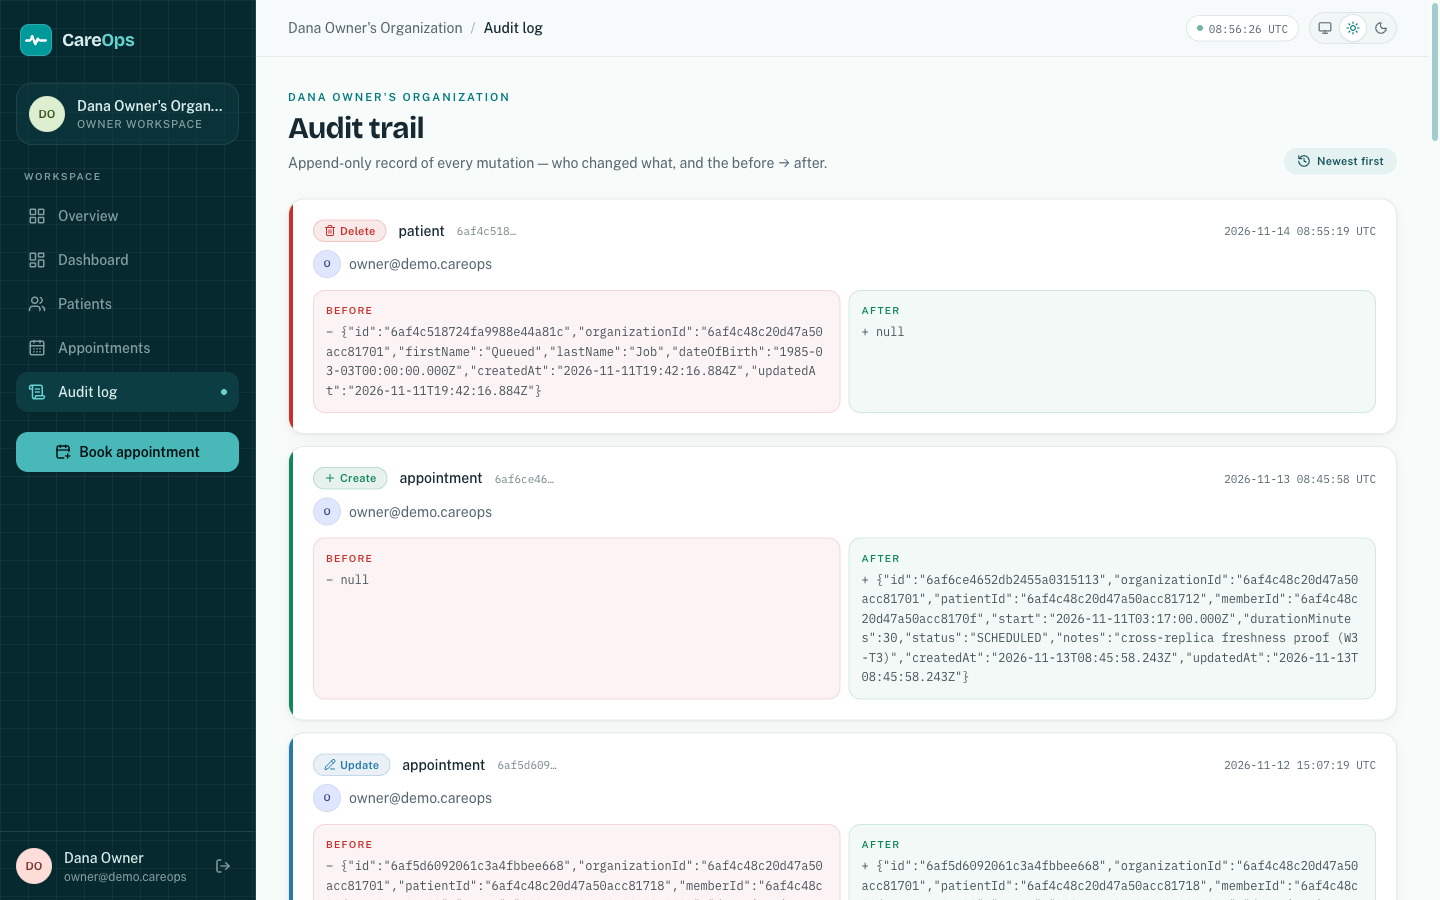
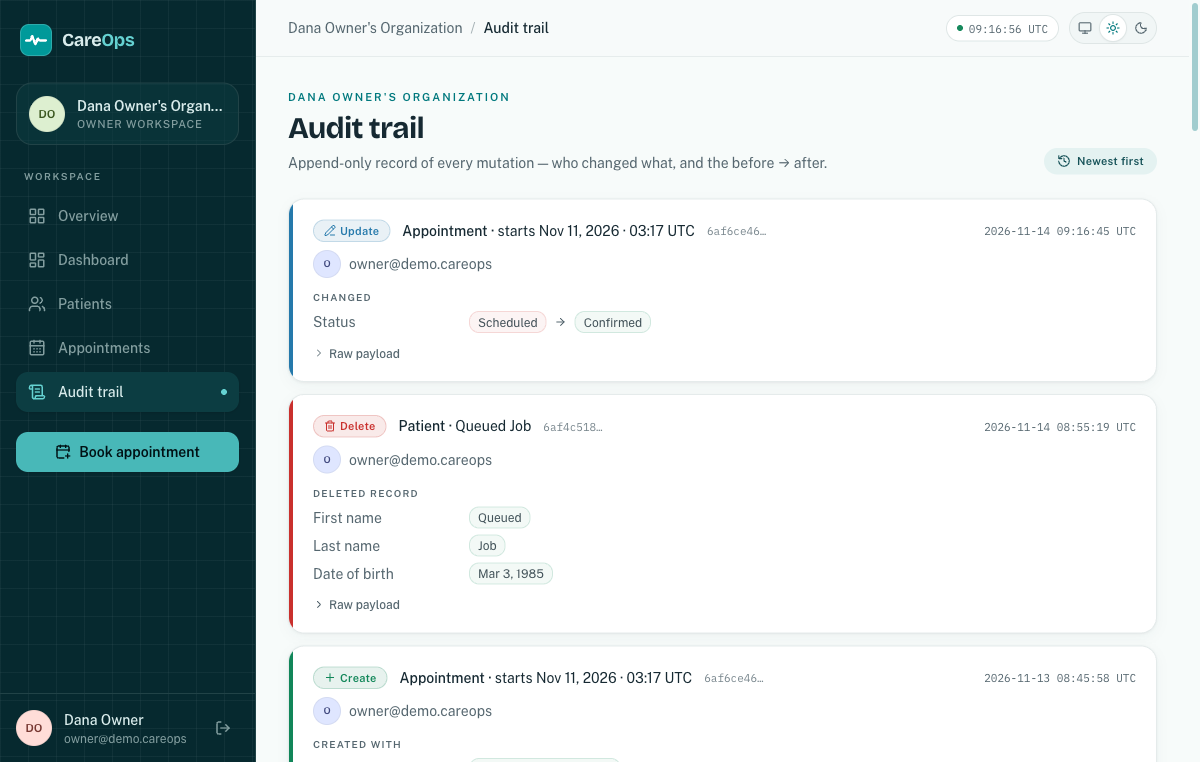
feat(web): audit trail UX — human headlines, field diffs, raw payload disclosure (#56)
* feat(web): audit trail UX — human headlines, field diffs, raw payload disclosure

* refactor(web): audit-format review fixes — shared row walk, stable compare, entry-based signatures

diff --git a/apps/web/src/routes/audit.tsx b/apps/web/src/routes/audit.tsx
@@ -3,6 +3,8 @@ import { useInfiniteQuery } from '@tanstack/react-query';
 import { auditEntriesPageSchema, type AuditEntry, type WorkspaceMe } from '@careops/shared';
 import {
   ArrowLeft,
+  ArrowRight,
+  ChevronRight,
   CircleAlert,
   History,
   PencilLine,
@@ -22,6 +24,7 @@ import { Card } from '#/components/ui/card';
 import { EmptyState } from '#/components/ui/empty-state';
 import { Skeleton } from '#/components/ui/skeleton';
 import { apiGet } from '#/lib/api';
+import { describeEntity, entryChanges, formatStamp } from '#/lib/audit-format';
 import { useWorkspace } from '#/lib/use-workspace';
 import { cn } from '#/lib/utils';
 
@@ -36,12 +39,7 @@ const ACTION_META: Record<
   delete: { icon: Trash2, variant: 'destructive', rail: 'bg-destructive' },
 };
 
-function formatStamp(iso: string): string {
-  const date = new Date(iso);
-  if (Number.isNaN(date.getTime())) return iso;
-  const stamp = date.toISOString();
-  return `${stamp.slice(0, 10)} ${stamp.slice(11, 19)} UTC`;
-}
+const MAX_VISIBLE_ROWS = 8;
 
 function AuditPage() {
   const me = useWorkspace('/audit');
@@ -134,6 +132,9 @@ function AuditTrail({ me }: { me: WorkspaceMe }) {
           {entries.map((entry, index) => {
             const meta = ACTION_META[entry.action];
             const Icon = meta.icon;
+            const { heading, rows } = entryChanges(entry);
+            const subject = describeEntity(entry);
+            const entityTitle = entry.entity.charAt(0).toUpperCase() + entry.entity.slice(1);
             return (
               <li key={entry.id} data-testid="audit-row" className="relative animate-rise">
                 <Card
@@ -148,7 +149,15 @@ function AuditTrail({ me }: { me: WorkspaceMe }) {
                       <Icon className="size-3" />
                       {entry.action}
                     </Badge>
-                    <span className="text-sm font-medium">{entry.entity}</span>
+                    <span className="text-sm font-medium">
+                      {entityTitle}
+                      {subject && (
+                        <>
+                          {' '}
+                          · <span className="font-normal">{subject}</span>
+                        </>
+                      )}
+                    </span>
                     <span className="font-mono text-[11px] text-muted-foreground/80">
                       {entry.entityId.slice(0, 8)}…
                     </span>
@@ -160,24 +169,85 @@ function AuditTrail({ me }: { me: WorkspaceMe }) {
                     <Avatar name={entry.actorEmail} size="sm" />
                     <span className="truncate">{entry.actorEmail}</span>
                   </div>
-                  <div className="mt-3 grid gap-2 lg:grid-cols-2">
-                    <div className="rounded-lg border border-destructive/15 bg-destructive/5 p-3">
-                      <p className="text-[10px] font-semibold uppercase tracking-[0.12em] text-destructive">
-                        Before
+
+                  <div className="mt-3">
+                    <p className="text-[10px] font-semibold uppercase tracking-[0.12em] text-muted-foreground">
+                      {heading}
+                    </p>
+                    {rows.length === 0 ? (
+                      <p className="mt-1.5 text-sm text-muted-foreground">
+                        No field changes recorded — see the raw payload.
                       </p>
-                      <pre className="mt-1 max-h-44 overflow-auto whitespace-pre-wrap break-all font-mono text-xs leading-relaxed text-foreground/80">
-                        − {JSON.stringify(entry.before)}
-                      </pre>
-                    </div>
-                    <div className="rounded-lg border border-success/15 bg-success/5 p-3">
-                      <p className="text-[10px] font-semibold uppercase tracking-[0.12em] text-success">
-                        After
+                    ) : (
+                      <ul className="mt-1.5 grid gap-1.5">
+                        {rows.slice(0, MAX_VISIBLE_ROWS).map((row) => (
+                          <li
+                            key={row.label}
+                            className="grid items-center gap-x-3 gap-y-1 text-sm sm:grid-cols-[minmax(9rem,auto)_1fr]"
+                          >
+                            <span className="text-muted-foreground">{row.label}</span>
+                            <span className="flex flex-wrap items-center gap-2">
+                              {row.before !== null && (
+                                <span
+                                  title={row.before}
+                                  className="max-w-[36rem] truncate rounded-md border border-destructive/15 bg-destructive/5 px-2 py-0.5 text-xs text-foreground/80"
+                                >
+                                  {row.before}
+                                </span>
+                              )}
+                              {row.before !== null && row.after !== null && (
+                                <ArrowRight
+                                  aria-hidden
+                                  className="size-3 shrink-0 text-muted-foreground"
+                                />
+                              )}
+                              {row.after !== null && (
+                                <span
+                                  title={row.after}
+                                  className="max-w-[36rem] truncate rounded-md border border-success/15 bg-success/5 px-2 py-0.5 text-xs text-foreground/80"
+                                >
+                                  {row.after}
+                                </span>
+                              )}
+                            </span>
+                          </li>
+                        ))}
+                      </ul>
+                    )}
+                    {rows.length > MAX_VISIBLE_ROWS && (
+                      <p className="mt-1.5 text-xs text-muted-foreground">
+                        + {rows.length - MAX_VISIBLE_ROWS} more — open the raw payload.
                       </p>
-                      <pre className="mt-1 max-h-44 overflow-auto whitespace-pre-wrap break-all font-mono text-xs leading-relaxed text-foreground/80">
-                        + {JSON.stringify(entry.after)}
-                      </pre>
-                    </div>
+                    )}
                   </div>
+
+                  <details className="group mt-3">
+                    <summary className="flex w-fit cursor-pointer select-none items-center gap-1 text-xs font-medium text-muted-foreground transition-colors hover:text-foreground [&::-webkit-details-marker]:hidden">
+                      <ChevronRight
+                        aria-hidden
+                        className="size-3 transition-transform group-open:rotate-90"
+                      />
+                      Raw payload
+                    </summary>
+                    <div className="mt-2 grid gap-2 lg:grid-cols-2">
+                      <div className="rounded-lg border border-destructive/15 bg-destructive/5 p-3">
+                        <p className="text-[10px] font-semibold uppercase tracking-[0.12em] text-destructive">
+                          Before
+                        </p>
+                        <pre className="mt-1 max-h-44 overflow-auto whitespace-pre-wrap break-all font-mono text-xs leading-relaxed text-foreground/80">
+                          − {JSON.stringify(entry.before)}
+                        </pre>
+                      </div>
+                      <div className="rounded-lg border border-success/15 bg-success/5 p-3">
+                        <p className="text-[10px] font-semibold uppercase tracking-[0.12em] text-success">
+                          After
+                        </p>
+                        <pre className="mt-1 max-h-44 overflow-auto whitespace-pre-wrap break-all font-mono text-xs leading-relaxed text-foreground/80">
+                          + {JSON.stringify(entry.after)}
+                        </pre>
+                      </div>
+                    </div>
+                  </details>
                 </Card>
               </li>
             );

diff --git a/apps/web/src/lib/audit-format.ts b/apps/web/src/lib/audit-format.ts
@@ -1,0 +1,165 @@
+/**
+ * Audit-trail presentation helpers: turn the raw before→after payloads of an
+ * Audit Entry into human-readable rows. The immutable payload stays the source
+ * of truth — it is always available behind the entry's "Raw payload" disclosure
+ * — these helpers only decide what the summary shows.
+ */
+import type { AuditEntry } from '@careops/shared';
+
+/** Internal bookkeeping keys — meaningful to the record, not to a reader. */
+const NOISE_KEYS = new Set([
+  'id',
+  '_id',
+  'organizationId',
+  'createdAt',
+  'updatedAt',
+  'patientId',
+  'memberId',
+]);
+
+const LABELS: Record<string, string> = {
+  firstName: 'First name',
+  lastName: 'Last name',
+  dateOfBirth: 'Date of birth',
+  phone: 'Phone',
+  contactEmail: 'Contact email',
+  notes: 'Notes',
+  start: 'Start (UTC)',
+  durationMinutes: 'Duration',
+  status: 'Status',
+};
+
+const MAX_VALUE_LENGTH = 140;
+
+export type AuditChangeRow = {
+  label: string;
+  /** Formatted old value — null on create. */
+  before: string | null;
+  /** Formatted new value — null on delete. */
+  after: string | null;
+};
+
+function payloadOf(value: unknown): Record<string, unknown> | null {
+  if (!value || typeof value !== 'object' || Array.isArray(value)) return null;
+  return value as Record<string, unknown>;
+}
+
+function humanizeKey(key: string): string {
+  return (
+    LABELS[key] ?? key.replace(/([a-z0-9])([A-Z])/g, '$1 $2').replace(/^./, (c) => c.toUpperCase())
+  );
+}
+
+function formatValue(key: string, value: unknown): string {
+  if (value === null || value === undefined || value === '') return '—';
+  if (typeof value === 'boolean') return value ? 'Yes' : 'No';
+  if (key === 'durationMinutes' && typeof value === 'number') return `${value} min`;
+  if (key === 'status' && typeof value === 'string')
+    return value
+      .toLowerCase()
+      .split(/[\s_]+/)
+      .map((word) => word.replace(/^./, (c) => c.toUpperCase()))
+      .join(' ');
+  if (typeof value === 'string') {
+    if (key === 'dateOfBirth' && /^\d{4}-\d{2}-\d{2}T/.test(value)) {
+      return formatStampDate(value);
+    }
+    if (key === 'start') return formatStampDate(value, true);
+    return value.length > MAX_VALUE_LENGTH ? `${value.slice(0, MAX_VALUE_LENGTH)}…` : value;
+  }
+  return JSON.stringify(value);
+}
+
+/** Entry timestamp: "2026-11-14 08:55:19 UTC". */
+export function formatStamp(iso: string): string {
+  const date = new Date(iso);
+  if (Number.isNaN(date.getTime())) return iso;
+  const stamp = date.toISOString();
+  return `${stamp.slice(0, 10)} ${stamp.slice(11, 19)} UTC`;
+}
+
+function formatStampDate(value: string, withTime = false): string {
+  const date = new Date(value);
+  if (Number.isNaN(date.getTime())) return value;
+  const day = date.toLocaleDateString('en-US', {
+    month: 'short',
+    day: 'numeric',
+    year: 'numeric',
+    timeZone: 'UTC',
+  });
+  if (!withTime) return day;
+  const time = date.toISOString().slice(11, 16);
+  return `${day} · ${time} UTC`;
+}
+
+/** Key-order-insensitive text for comparing payload values (nested objects compare by content). */
+function stableValue(value: unknown): string {
+  if (value === null || value === undefined) return 'null';
+  if (typeof value !== 'object') return JSON.stringify(value);
+  if (Array.isArray(value)) return `[${value.map(stableValue).join(',')}]`;
+  const entries = Object.entries(value).sort(([a], [b]) => a.localeCompare(b));
+  return `{${entries.map(([k, v]) => `${JSON.stringify(k)}:${stableValue(v)}`).join(',')}}`;
+}
+
+/** Non-noise keys across the given payloads, in first-seen order. */
+function payloadKeys(...docs: Array<Record<string, unknown> | null>): string[] {
+  return [...new Set(docs.flatMap((doc) => (doc ? Object.keys(doc) : [])))].filter(
+    (key) => !NOISE_KEYS.has(key),
+  );
+}
+
+function makeRow(
+  key: string,
+  beforeDoc: Record<string, unknown> | null,
+  afterDoc: Record<string, unknown> | null,
+): AuditChangeRow {
+  return {
+    label: humanizeKey(key),
+    before: beforeDoc ? formatValue(key, beforeDoc[key]) : null,
+    after: afterDoc ? formatValue(key, afterDoc[key]) : null,
+  };
+}
+
+/** A plain-language subject for the entry, or null when the payload has nothing human to add. */
+export function describeEntity(entry: AuditEntry): string | null {
+  const doc = payloadOf(entry.after) ?? payloadOf(entry.before);
+  if (!doc) return null;
+  if (entry.entity === 'patient') {
+    const name = [doc.firstName, doc.lastName].filter((v) => typeof v === 'string' && v).join(' ');
+    return name || 'unnamed patient';
+  }
+  if (entry.entity === 'appointment' && typeof doc.start === 'string') {
+    return `starts ${formatStampDate(doc.start, true)}`;
+  }
+  return null;
+}
+
+/** One row per non-noise key, showing only what actually changed. */
+export function changedRows(before: unknown, after: unknown): AuditChangeRow[] {
+  const beforeDoc = payloadOf(before);
+  const afterDoc = payloadOf(after);
+  if (!beforeDoc && !afterDoc) return [];
+  return payloadKeys(beforeDoc, afterDoc)
+    .filter((key) => stableValue(beforeDoc?.[key]) !== stableValue(afterDoc?.[key]))
+    .map((key) => makeRow(key, beforeDoc, afterDoc));
+}
+
+/** One row per non-empty field — the summary for create (after) and delete (before). */
+export function summarizeDoc(doc: unknown): AuditChangeRow[] {
+  const payload = payloadOf(doc);
+  if (!payload) return [];
+  return payloadKeys(payload)
+    .filter((key) => payload[key] !== null && payload[key] !== undefined && payload[key] !== '')
+    .map((key) => makeRow(key, null, payload));
+}
+
+/** Which one-sided summary a non-update action shows, and the rows to render. */
+export function entryChanges(entry: AuditEntry): { heading: string; rows: AuditChangeRow[] } {
+  if (entry.action === 'update') {
+    return { heading: 'Changed', rows: changedRows(entry.before, entry.after) };
+  }
+  if (entry.action === 'create') {
+    return { heading: 'Created with', rows: summarizeDoc(entry.after) };
+  }
+  return { heading: 'Deleted record', rows: summarizeDoc(entry.before) };
+}

diff --git a/apps/web/src/components/app-shell.tsx b/apps/web/src/components/app-shell.tsx
@@ -31,7 +31,7 @@ const NAV: Array<{
   { key: 'dashboard', to: '/dashboard', label: 'Dashboard', icon: LayoutDashboard },
   { key: 'patients', to: '/patients', label: 'Patients', icon: Users },
   { key: 'appointments', to: '/appointments', label: 'Appointments', icon: CalendarDays },
-  { key: 'audit', to: '/audit', label: 'Audit log', icon: ScrollText },
+  { key: 'audit', to: '/audit', label: 'Audit trail', icon: ScrollText },
 ];
 
 const ROLE_LABEL: Record<WorkspaceMe['organization']['role'], string> = {

diff --git a/apps/web/src/routes/workspace.tsx b/apps/web/src/routes/workspace.tsx
@@ -90,7 +90,7 @@ function WorkspaceOverview({ me }: { me: WorkspaceMe }) {
           {
             to: '/audit' as const,
             testId: 'nav-audit',
-            label: 'Audit log',
+            label: 'Audit trail',
             description: 'Append-only trail of every change.',
             icon: ScrollText,
           },
